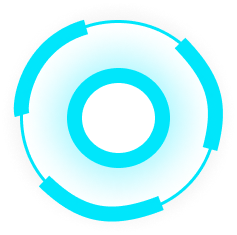
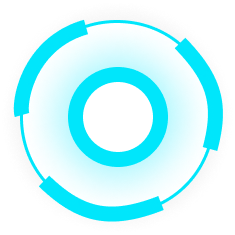
Portfolio saya

diff --git a/style.css b/style.css
@@ -12,9 +12,18 @@ body {
 }
 
 .halUtama {
+    display: flex;
+    justify-content: center;
+    align-items: center;
     width: 1690px;
     height: 700px;
     background-image: url('img/containerUtama.png');
+}
+
+.halUtama h1 {
+    font-size: 60px;
+    color: white;
+    text-transform: capitalize;
 }
 
 .bottom {
@@ -22,7 +31,7 @@ body {
     height: 220px;
     display: flex;
     align-items: flex-end;
-    justify-content: space-around;
+    justify-content: space-between;
     
 }
 
@@ -55,9 +64,54 @@ body {
 }
 
 .circle {
-    width: 230px;
-    height: 220px;
+    display: flex;
+    justify-content: center;
+    align-items: center;
+    width: 234.7px;
+    height: 234.7px;
+    border-radius: 50%;
     background-image: url(img/lingkaran.png);
-    animation: alternate;
+    -webkit-animation: 1s gear-rotate linear infinite;
+    -moz-animation: 1s gear-rotate linear infinite;
+    animation: 1s gear-rotate linear infinite;
+  
 }
 
+.circle:hover {
+    animation: paused;
+}
+
+/* .mid-circle {
+    width: 60px;
+    height: 60px;
+    border: 20px solid #00E6FB;
+    border-radius: 50%;
+} */
+
+
+@-webkit-keyframes gear-rotate {
+    0% { 
+      -webkit-transform: rotate(0deg);
+    }
+    100% { 
+      -webkit-transform: rotate(-360deg); 
+    }
+  }
+  
+  @-moz-keyframes gear-rotate {
+    0% { 
+      transform: rotate(0deg);
+    }
+    100% { 
+      transform: rotate(-360deg); 
+    }
+  }
+  
+  @keyframes gear-rotate {
+    0% { 
+      transform: rotate(0deg); 
+    }
+    100% { 
+      transform: rotate(-360deg); 
+    }
+  }

diff --git a/index.html b/index.html
@@ -9,7 +9,7 @@
 <body>
     <div class="container">
         <div class="halUtama">
-            
+            <h1>I'm Ainul Yaqin</h1>
         </div>
     </div>
 
